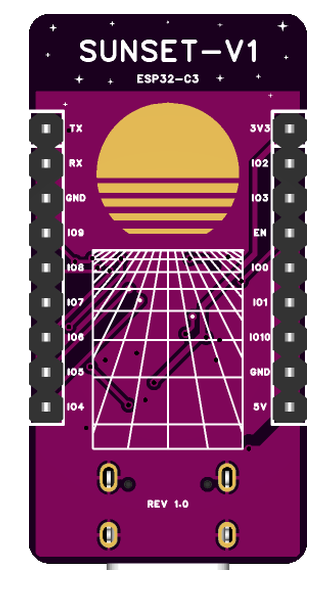
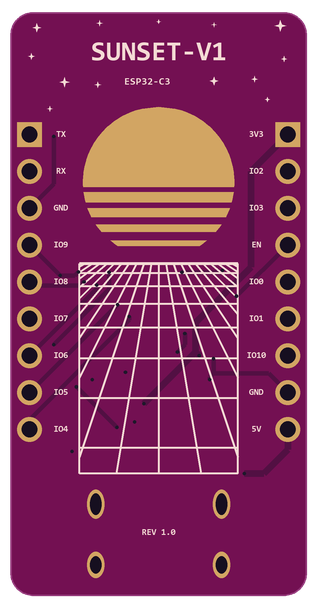
Refresh PCB views and verified header pinout

diff --git a/README.md b/README.md
@@ -7,6 +7,11 @@
 </p>
 
 <p align="center">
+  Layout renders · <a href="docs/pcb-front.png">Front</a> · <a href="docs/pcb-back.png">Back</a>
+</p>
+
+
+<p align="center">
   <a href="hardware/SUNSET-C3-EasyEDA-Pro.zip">Download the EasyEDA Pro project</a> ·
   <a href="https://prodocs.easyeda.com/en/project/file-save-as-local/index.html">Import guide</a>
 </p>
